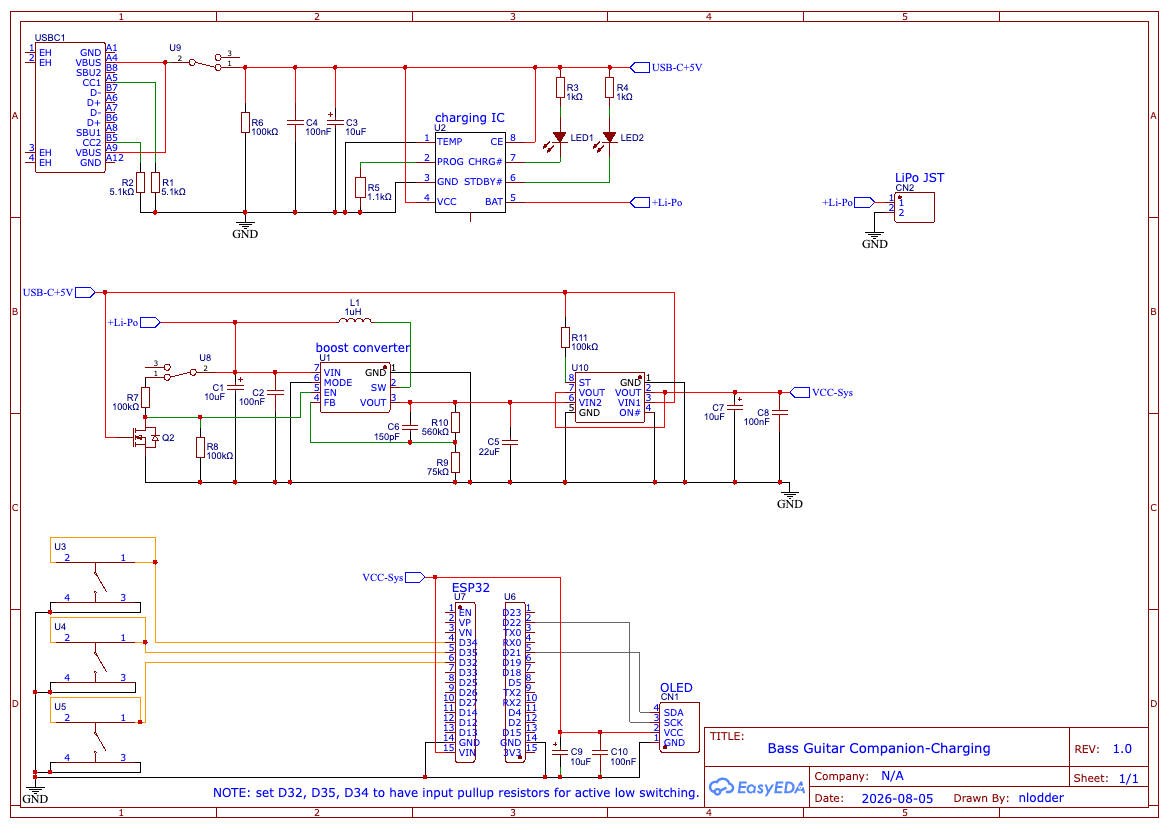
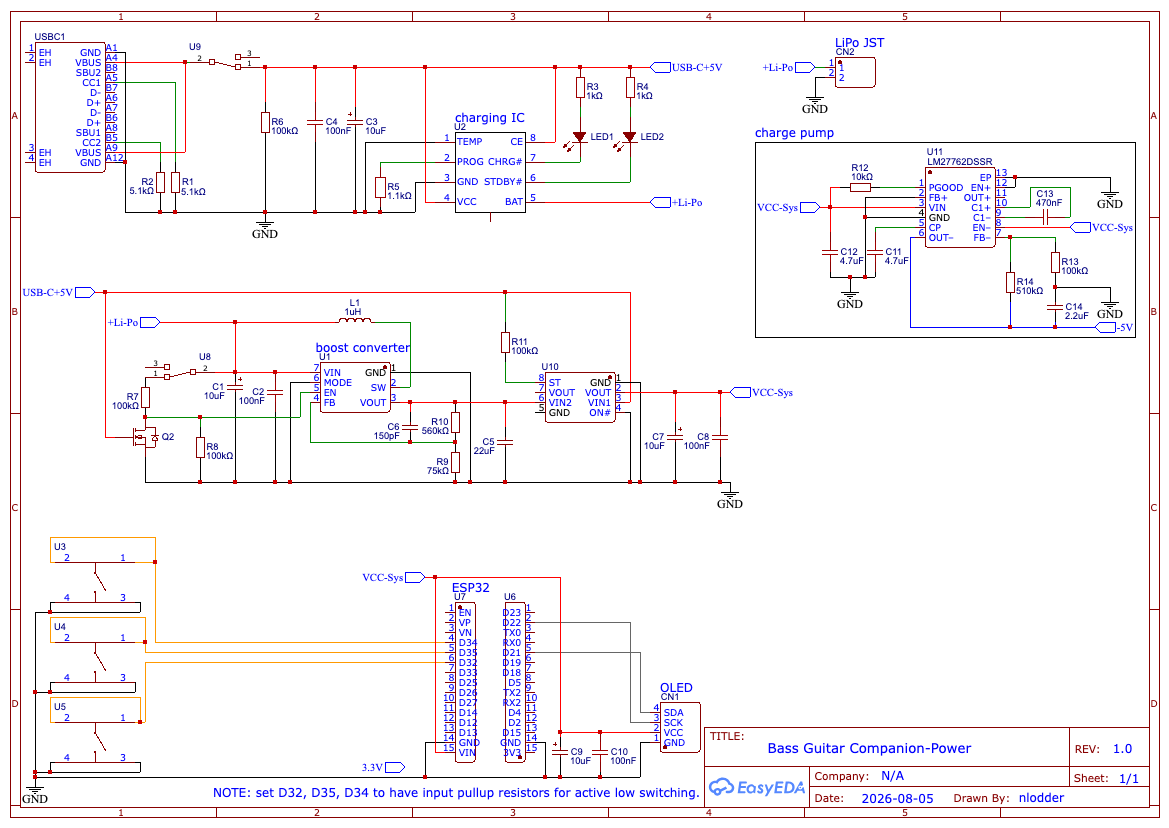
bass guitar companion project update

diff --git a/data/projects.js b/data/projects.js
@@ -12,18 +12,19 @@
 const projects = [
     {
         title: 'Bass Guitar Companion',
-        tools: ['EasyEDA', 'ESP32'],
-        skills: ['Power Systems Design', 'Circuit Design', 'Prototyping', 'I2C Protocol'],
+        tools: ['LTSpice', 'KiCad','EasyEDA', 'ESP32'],
+        skills: ['Power Systems Design', 'Circuit Design', 'SPICE Simulation', 'Prototyping'],
         media: [
             { src: '/assets/images/bassGuitar/fullSys.png', alt: 'Full system schematic', caption: 'Full System Schematic' },
+            { src: '/assets/images/bassGuitar/signalCondCircuit2nd.png', alt: '2nd-Order Signal Conditioning Circuit Schematic for Input to ESP32 SAR ADC', caption: 'Signal Conditioning Circuit Schematic for Input to ESP32 SAR ADC' },
             { src: '/assets/images/bassGuitar/charging.png', alt: 'USB-C-LiPo charging schematic', caption: 'USB-C-LiPo Charging Schematic' },
             { src: '/assets/images/bassGuitar/loadSharing.png', alt: 'Load sharing & power path management schematic', caption: 'Load Sharing & Power Path Management Schematic' },
             { src: '/assets/images/bassGuitar/system.png', alt: 'Control system schematic', caption: 'Control System Schematic' },
-            { src: '/assets/images/bassGuitar/bodeAttempt1.png', alt: 'Bass Output Processing Circuit Bode Plot', caption: 'Bass Output Processing Circuit Bode Plot' },
             { src: '/assets/images/bassGuitar/bodeAttempt33.png', alt: '4th-Order vs 2nd-Order Active Bandpass Filter Comparison', caption: '4th-Order vs 2nd-Order Active Bandpass Filter Comparison' },
             { src: '/assets/images/bassGuitar/impdnc_mismatch.png', alt: 'Attenuator -> DC Offset Segment Impedance Mismatch Issue', caption: 'Attenuator -> DC Offset Segment Impedance Mismatch Issue (top circuit has DC Offset segment, bottom does not)' },
             { src: '/assets/images/bassGuitar/buffer_fix.png', alt: 'Buffer to Resolve Impedance Mismatch Between Segments', caption: 'Buffer to Resolve Impedance Mismatch Between Segments (top circuit has buffer, bottom does not)' },
-            { src: '/assets/images/bassGuitar/signalCondCircuit.png', alt: 'Signal Conditioning Circuit for Input to ESP32 SAR ADC', caption: 'Signal Conditioning Circuit for Input to ESP32 SAR ADC in LTSpice' },
+            { src: '/assets/images/bassGuitar/signalCondCircuit4th.png', alt: '4th-Order Signal Conditioning Circuit Schematic for Input to ESP32 SAR ADC', caption: 'Signal Conditioning Circuit Schematic with 4th-order Filter for Input to ESP32 SAR ADC in LTSpice' },
+            { src: '/assets/images/bassGuitar/ADCInput1VAcrossFreq.png', alt: 'LTSpice Simulation of ESP32 SAR ADC Input with Bass Signal: 1V Amplitude @ 5Hz->500Hz', caption: 'LTSpice Simulation of ESP32 SAR ADC Input with Bass Signal: 1V Amplitude @ 5Hz->500Hz' },
         ],
         summary: `
             I am designing a companion system centered around an <b>ESP32 microcontroller</b> for my bass guitar that will allow me to control
@@ -50,18 +51,18 @@ const projects = [
             of the 25Hz - 135Hz frequency band, I am designing for maximum 5% attenuation at those edge frequencies rather than treating them
             as the filter's cutoff frequencies (with 29.3% attenuation).<br><br>
 
-            I've designed a 4th-order active RC-OpAmp bandpass filter to improve the selectivity of the filter (when compared to passive RC
+            I've designed a 2nd-order active RC-OpAmp bandpass filter to improve the selectivity of the filter (when compared to passive RC
             or RLC bandpass filters) with fewer components to resolve the gentle roll-off associated with passive RC/RLC bandpass filters.
-            See figure 6 for a comparison between a 2nd-order 4th-order active bandpass filter, where we see increased selectivity in the
-            4th-order filter with a sharper rolloff.<br><br>
+            See figure 6 for a comparison between a 2nd-order 4th-order (figure 9) active bandpass filter, where we see increased selectivity in the
+            4th-order filter with a sharper rolloff. A buffer was added between the attenuator and DC Offset segments to prevent the 3.3V source
+            from raising the output voltage of the attenuator portion, which would then be boosted by another 500mV (see figures 7 & 8). I opted to
+            go with the 2nd-order filter to reduce cost seeing as its performance is adequate. See figure 10 for a plot of the signal processing
+            circuit's response across bass input frequencies from 5Hz->500Hz. It performs as desired, providing a 500mV DC offset and attenuating
+            the (1V) signal such that it remains within the optimal voltage range for the SAR ADC (100mV-900mV).<br><br>
 
             <b>Current Activity</b>
-            I am currently running SPICE simulations to evaluate this signal processing circuit. A buffer was added between the attenuator and DC Offset
-            segments to prevent the 3.3V source from raising the output voltage of the attenuator portion, which would then be boosted by another 500mV
-            (see figures 7 & 8). As seen in figure 8, I need to resolve behaviour in which there is a sharp voltage spike at startup, as this could damage
-            the ESP32's SAR ADC.<br><br>
-
-            PCB design, enclosure design, and assembly will follow once the schematic is complete and tested through simulation.
+            With SPICE simulations complete, I am now proceeding to finalize my componenet selection, making swaps where selected components are
+            backlogged or are no longer available. Once complete, I will begin on PCB design.<br><br>
         `,
     },
     {
